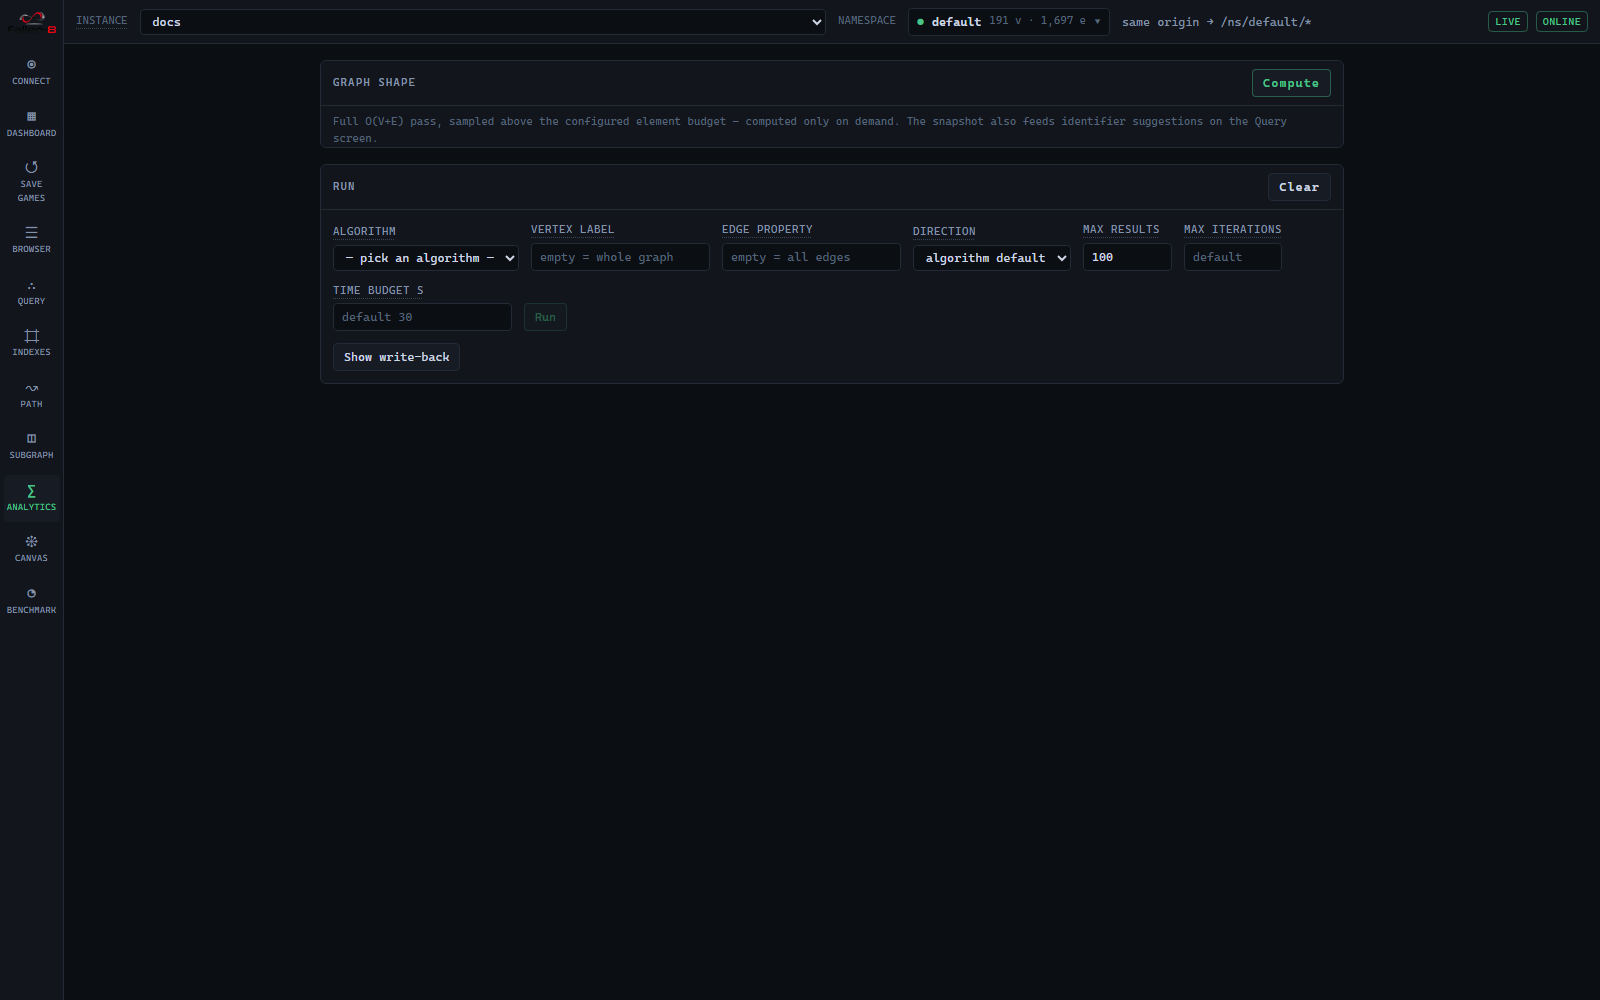
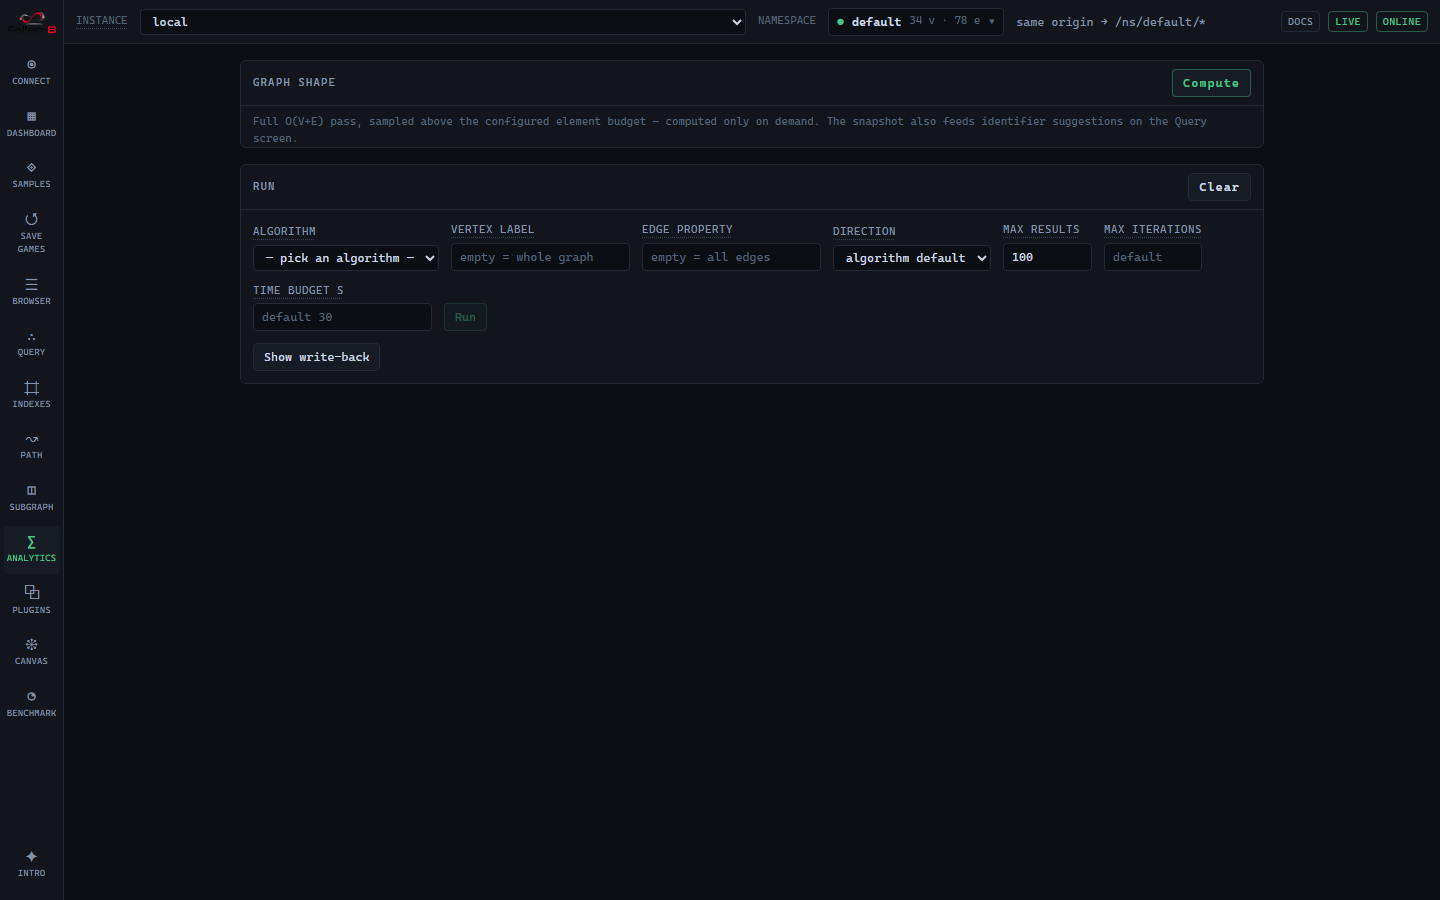
docs: add capture specs for the remaining Studio screens
Six top-bar screens (dashboard, browser, indexes, plugins, analytics, connect)
had no screenshot capture spec and predated the current tooling. Add
screenshot-*.spec.ts for each (modeled on the existing specs: seed via REST,
activate the same-origin "local" instance, navigate, capture to
docs/src/assets/images/) and regenerate the images so they show the new
top-bar DOCS link. Completes the recapture of every top-bar Studio screenshot.

diff --git a/fallen-8-web-ui/e2e/screenshot-dashboard.spec.ts b/fallen-8-web-ui/e2e/screenshot-dashboard.spec.ts
@@ -1,0 +1,67 @@
+// MIT License
+//
+// screenshot-dashboard.spec.ts
+//
+// Copyright (c) 2011-2026 Henning Rauch
+//
+// Permission is hereby granted, free of charge, to any person obtaining a copy
+// of this software and associated documentation files (the "Software"), to deal
+// in the Software without restriction, including without limitation the rights
+// to use, copy, modify, merge, publish, distribute, sublicense, and/or sell
+// copies of the Software, and to permit persons to whom the Software is
+// furnished to do so, subject to the following conditions:
+//
+// The above copyright notice and this permission notice shall be included in all
+// copies or substantial portions of the Software.
+//
+// THE SOFTWARE IS PROVIDED "AS IS", WITHOUT WARRANTY OF ANY KIND, EXPRESS OR
+// IMPLIED, INCLUDING BUT NOT LIMITED TO THE WARRANTIES OF MERCHANTABILITY,
+//
+// FITNESS FOR A PARTICULAR PURPOSE AND NONINFRINGEMENT. IN NO EVENT SHALL THE
+// AUTHORS OR COPYRIGHT HOLDERS BE LIABLE FOR ANY CLAIM, DAMAGES OR OTHER
+// LIABILITY, WHETHER IN AN ACTION OF CONTRACT, TORT OR OTHERWISE, ARISING FROM,
+// OUT OF OR IN CONNECTION WITH THE SOFTWARE OR THE USE OR OTHER DEALINGS IN THE
+// SOFTWARE.
+
+import { expect, test } from "@playwright/test";
+
+/**
+ * Docs screenshot capture: the Dashboard screen showing live vertex/edge/memory stats.
+ * Capture-only. Generates a 200-vertex / 1,000-edge graph via REST so the counts are non-trivial.
+ *
+ *   F8_SCREENSHOT=1 F8_UI_URL=http://127.0.0.1:<port> npx playwright test e2e/screenshot-dashboard.spec.ts
+ *
+ * Output: docs/src/assets/images/screen-dashboard.png.
+ */
+
+const API_KEY = process.env.F8_E2E_API_KEY ?? "e2e-key";
+const AUTH = { Authorization: `Bearer ${API_KEY}` };
+
+test.skip(process.env.F8_SCREENSHOT !== "1", "docs screenshot capture (set F8_SCREENSHOT=1)");
+
+test("capture the Dashboard screen with a loaded graph", async ({ page, request }) => {
+  await page.setViewportSize({ width: 1440, height: 900 });
+
+  // Idempotent reset, then a 200-vertex graph with 5 out-edges each (1,000 edges).
+  await request.head("/tabularasa/all", { headers: AUTH });
+  expect(
+    (await request.get("/generate?nodeCount=200&edgeCount=5", { headers: AUTH })).ok(),
+  ).toBeTruthy();
+
+  // Activate the auto-seeded same-origin "local" instance with the e2e key (same handshake as
+  // screenshot-savegames), then reload so /status refetches with the key and the nav opens.
+  await page.goto("/");
+  await page.getByRole("button", { name: "Edit" }).first().click();
+  await page.getByLabel(/api key/i).fill(API_KEY);
+  await page.getByTestId("instance-save").click();
+  await page.getByRole("radio", { name: "activate local" }).check();
+  await expect(page.getByTestId("active-endpoint")).toContainText("same origin");
+  await page.reload();
+  await expect(page.getByTestId("health-chip")).toContainText(/online/i, { timeout: 20_000 });
+
+  await page.goto("/q/default/dashboard");
+  await expect(page.getByRole("heading", { name: /dashboard/i })).toBeVisible({ timeout: 20_000 });
+  await expect(page.getByText(/used memory/i)).toBeVisible({ timeout: 20_000 });
+
+  await page.screenshot({ path: "../docs/src/assets/images/screen-dashboard.png" });
+});

diff --git a/fallen-8-web-ui/e2e/screenshot-indexes.spec.ts b/fallen-8-web-ui/e2e/screenshot-indexes.spec.ts
@@ -1,0 +1,66 @@
+// MIT License
+//
+// screenshot-indexes.spec.ts
+//
+// Copyright (c) 2011-2026 Henning Rauch
+//
+// Permission is hereby granted, free of charge, to any person obtaining a copy
+// of this software and associated documentation files (the "Software"), to deal
+// in the Software without restriction, including without limitation the rights
+// to use, copy, modify, merge, publish, distribute, sublicense, and/or sell
+// copies of the Software, and to permit persons to whom the Software is
+// furnished to do so, subject to the following conditions:
+//
+// The above copyright notice and this permission notice shall be included in all
+// copies or substantial portions of the Software.
+//
+// THE SOFTWARE IS PROVIDED "AS IS", WITHOUT WARRANTY OF ANY KIND, EXPRESS OR
+// IMPLIED, INCLUDING BUT NOT LIMITED TO THE WARRANTIES OF MERCHANTABILITY,
+//
+// FITNESS FOR A PARTICULAR PURPOSE AND NONINFRINGEMENT. IN NO EVENT SHALL THE
+// AUTHORS OR COPYRIGHT HOLDERS BE LIABLE FOR ANY CLAIM, DAMAGES OR OTHER
+// LIABILITY, WHETHER IN AN ACTION OF CONTRACT, TORT OR OTHERWISE, ARISING FROM,
+// OUT OF OR IN CONNECTION WITH THE SOFTWARE OR THE USE OR OTHER DEALINGS IN THE
+// SOFTWARE.
+
+import { expect, test } from "@playwright/test";
+import { readFileSync } from "node:fs";
+import path from "node:path";
+
+/**
+ * Docs screenshot capture: the Indexes screen (inventory + the Create index form). Capture-only.
+ * Imports the Karate Club sample so the namespace carries real counts; leaves the inventory empty
+ * so the create form and its guidance are the subject (index definitions are immutable).
+ *
+ *   F8_SCREENSHOT=1 F8_UI_URL=http://127.0.0.1:<port> npx playwright test e2e/screenshot-indexes.spec.ts
+ *
+ * Output: docs/src/assets/images/screen-indexes.png.
+ */
+
+const API_KEY = process.env.F8_E2E_API_KEY ?? "e2e-key";
+const AUTH = { Authorization: `Bearer ${API_KEY}` };
+const NDJSON = { ...AUTH, "Content-Type": "application/x-ndjson" };
+
+test.skip(process.env.F8_SCREENSHOT !== "1", "docs screenshot capture (set F8_SCREENSHOT=1)");
+
+test("capture the Indexes screen", async ({ page, request }) => {
+  await page.setViewportSize({ width: 1440, height: 900 });
+
+  await request.head("/tabularasa/all", { headers: AUTH });
+  const jsonl = readFileSync(path.resolve(process.cwd(), "../samples/karate-club.jsonl"), "utf8");
+  expect((await request.post("/bulk/import", { headers: NDJSON, data: jsonl })).ok()).toBeTruthy();
+
+  await page.goto("/");
+  await page.getByRole("button", { name: "Edit" }).first().click();
+  await page.getByLabel(/api key/i).fill(API_KEY);
+  await page.getByTestId("instance-save").click();
+  await page.getByRole("radio", { name: "activate local" }).check();
+  await expect(page.getByTestId("active-endpoint")).toContainText("same origin");
+  await page.reload();
+  await expect(page.getByTestId("health-chip")).toContainText(/online/i, { timeout: 20_000 });
+
+  await page.goto("/q/default/indexes");
+  await expect(page.getByTestId("index-type").first()).toBeVisible({ timeout: 20_000 });
+
+  await page.screenshot({ path: "../docs/src/assets/images/screen-indexes.png" });
+});

diff --git a/fallen-8-web-ui/e2e/screenshot-analytics.spec.ts b/fallen-8-web-ui/e2e/screenshot-analytics.spec.ts
@@ -1,0 +1,65 @@
+// MIT License
+//
+// screenshot-analytics.spec.ts
+//
+// Copyright (c) 2011-2026 Henning Rauch
+//
+// Permission is hereby granted, free of charge, to any person obtaining a copy
+// of this software and associated documentation files (the "Software"), to deal
+// in the Software without restriction, including without limitation the rights
+// to use, copy, modify, merge, publish, distribute, sublicense, and/or sell
+// copies of the Software, and to permit persons to whom the Software is
+// furnished to do so, subject to the following conditions:
+//
+// The above copyright notice and this permission notice shall be included in all
+// copies or substantial portions of the Software.
+//
+// THE SOFTWARE IS PROVIDED "AS IS", WITHOUT WARRANTY OF ANY KIND, EXPRESS OR
+// IMPLIED, INCLUDING BUT NOT LIMITED TO THE WARRANTIES OF MERCHANTABILITY,
+//
+// FITNESS FOR A PARTICULAR PURPOSE AND NONINFRINGEMENT. IN NO EVENT SHALL THE
+// AUTHORS OR COPYRIGHT HOLDERS BE LIABLE FOR ANY CLAIM, DAMAGES OR OTHER
+// LIABILITY, WHETHER IN AN ACTION OF CONTRACT, TORT OR OTHERWISE, ARISING FROM,
+// OUT OF OR IN CONNECTION WITH THE SOFTWARE OR THE USE OR OTHER DEALINGS IN THE
+// SOFTWARE.
+
+import { expect, test } from "@playwright/test";
+import { readFileSync } from "node:fs";
+import path from "node:path";
+
+/**
+ * Docs screenshot capture: the Analytics screen before a run (algorithm picker + options).
+ * Capture-only. Imports the Karate Club sample so the graph is ready to analyze.
+ *
+ *   F8_SCREENSHOT=1 F8_UI_URL=http://127.0.0.1:<port> npx playwright test e2e/screenshot-analytics.spec.ts
+ *
+ * Output: docs/src/assets/images/screen-analytics-before.png.
+ */
+
+const API_KEY = process.env.F8_E2E_API_KEY ?? "e2e-key";
+const AUTH = { Authorization: `Bearer ${API_KEY}` };
+const NDJSON = { ...AUTH, "Content-Type": "application/x-ndjson" };
+
+test.skip(process.env.F8_SCREENSHOT !== "1", "docs screenshot capture (set F8_SCREENSHOT=1)");
+
+test("capture the Analytics screen before a run", async ({ page, request }) => {
+  await page.setViewportSize({ width: 1440, height: 900 });
+
+  await request.head("/tabularasa/all", { headers: AUTH });
+  const jsonl = readFileSync(path.resolve(process.cwd(), "../samples/karate-club.jsonl"), "utf8");
+  expect((await request.post("/bulk/import", { headers: NDJSON, data: jsonl })).ok()).toBeTruthy();
+
+  await page.goto("/");
+  await page.getByRole("button", { name: "Edit" }).first().click();
+  await page.getByLabel(/api key/i).fill(API_KEY);
+  await page.getByTestId("instance-save").click();
+  await page.getByRole("radio", { name: "activate local" }).check();
+  await expect(page.getByTestId("active-endpoint")).toContainText("same origin");
+  await page.reload();
+  await expect(page.getByTestId("health-chip")).toContainText(/online/i, { timeout: 20_000 });
+
+  await page.goto("/q/default/analytics");
+  await expect(page.getByTestId("algo-name")).toBeVisible({ timeout: 20_000 });
+
+  await page.screenshot({ path: "../docs/src/assets/images/screen-analytics-before.png" });
+});

diff --git a/fallen-8-web-ui/e2e/screenshot-browser.spec.ts b/fallen-8-web-ui/e2e/screenshot-browser.spec.ts
@@ -1,0 +1,65 @@
+// MIT License
+//
+// screenshot-browser.spec.ts
+//
+// Copyright (c) 2011-2026 Henning Rauch
+//
+// Permission is hereby granted, free of charge, to any person obtaining a copy
+// of this software and associated documentation files (the "Software"), to deal
+// in the Software without restriction, including without limitation the rights
+// to use, copy, modify, merge, publish, distribute, sublicense, and/or sell
+// copies of the Software, and to permit persons to whom the Software is
+// furnished to do so, subject to the following conditions:
+//
+// The above copyright notice and this permission notice shall be included in all
+// copies or substantial portions of the Software.
+//
+// THE SOFTWARE IS PROVIDED "AS IS", WITHOUT WARRANTY OF ANY KIND, EXPRESS OR
+// IMPLIED, INCLUDING BUT NOT LIMITED TO THE WARRANTIES OF MERCHANTABILITY,
+//
+// FITNESS FOR A PARTICULAR PURPOSE AND NONINFRINGEMENT. IN NO EVENT SHALL THE
+// AUTHORS OR COPYRIGHT HOLDERS BE LIABLE FOR ANY CLAIM, DAMAGES OR OTHER
+// LIABILITY, WHETHER IN AN ACTION OF CONTRACT, TORT OR OTHERWISE, ARISING FROM,
+// OUT OF OR IN CONNECTION WITH THE SOFTWARE OR THE USE OR OTHER DEALINGS IN THE
+// SOFTWARE.
+
+import { expect, test } from "@playwright/test";
+import { readFileSync } from "node:fs";
+import path from "node:path";
+
+/**
+ * Docs screenshot capture: the Browser screen listing real graph elements. Capture-only.
+ * Imports the Karate Club sample so the element list carries labelled vertices and edges.
+ *
+ *   F8_SCREENSHOT=1 F8_UI_URL=http://127.0.0.1:<port> npx playwright test e2e/screenshot-browser.spec.ts
+ *
+ * Output: docs/src/assets/images/screen-browser.png.
+ */
+
+const API_KEY = process.env.F8_E2E_API_KEY ?? "e2e-key";
+const AUTH = { Authorization: `Bearer ${API_KEY}` };
+const NDJSON = { ...AUTH, "Content-Type": "application/x-ndjson" };
+
+test.skip(process.env.F8_SCREENSHOT !== "1", "docs screenshot capture (set F8_SCREENSHOT=1)");
+
+test("capture the Browser screen on a loaded graph", async ({ page, request }) => {
+  await page.setViewportSize({ width: 1440, height: 900 });
+
+  await request.head("/tabularasa/all", { headers: AUTH });
+  const jsonl = readFileSync(path.resolve(process.cwd(), "../samples/karate-club.jsonl"), "utf8");
+  expect((await request.post("/bulk/import", { headers: NDJSON, data: jsonl })).ok()).toBeTruthy();
+
+  await page.goto("/");
+  await page.getByRole("button", { name: "Edit" }).first().click();
+  await page.getByLabel(/api key/i).fill(API_KEY);
+  await page.getByTestId("instance-save").click();
+  await page.getByRole("radio", { name: "activate local" }).check();
+  await expect(page.getByTestId("active-endpoint")).toContainText("same origin");
+  await page.reload();
+  await expect(page.getByTestId("health-chip")).toContainText(/online/i, { timeout: 20_000 });
+
+  await page.goto("/q/default/browser");
+  await expect(page.getByTestId("lookup-id")).toBeVisible({ timeout: 20_000 });
+
+  await page.screenshot({ path: "../docs/src/assets/images/screen-browser.png" });
+});

diff --git a/fallen-8-web-ui/e2e/screenshot-connect.spec.ts b/fallen-8-web-ui/e2e/screenshot-connect.spec.ts
@@ -1,0 +1,61 @@
+// MIT License
+//
+// screenshot-connect.spec.ts
+//
+// Copyright (c) 2011-2026 Henning Rauch
+//
+// Permission is hereby granted, free of charge, to any person obtaining a copy
+// of this software and associated documentation files (the "Software"), to deal
+// in the Software without restriction, including without limitation the rights
+// to use, copy, modify, merge, publish, distribute, sublicense, and/or sell
+// copies of the Software, and to permit persons to whom the Software is
+// furnished to do so, subject to the following conditions:
+//
+// The above copyright notice and this permission notice shall be included in all
+// copies or substantial portions of the Software.
+//
+// THE SOFTWARE IS PROVIDED "AS IS", WITHOUT WARRANTY OF ANY KIND, EXPRESS OR
+// IMPLIED, INCLUDING BUT NOT LIMITED TO THE WARRANTIES OF MERCHANTABILITY,
+//
+// FITNESS FOR A PARTICULAR PURPOSE AND NONINFRINGEMENT. IN NO EVENT SHALL THE
+// AUTHORS OR COPYRIGHT HOLDERS BE LIABLE FOR ANY CLAIM, DAMAGES OR OTHER
+// LIABILITY, WHETHER IN AN ACTION OF CONTRACT, TORT OR OTHERWISE, ARISING FROM,
+// OUT OF OR IN CONNECTION WITH THE SOFTWARE OR THE USE OR OTHER DEALINGS IN THE
+// SOFTWARE.
+
+import { expect, test } from "@playwright/test";
+
+/**
+ * Docs screenshot capture: the Connect screen with the active same-origin "local" instance
+ * (registration list + configuration). Capture-only; needs no graph data.
+ *
+ *   F8_SCREENSHOT=1 F8_UI_URL=http://127.0.0.1:<port> npx playwright test e2e/screenshot-connect.spec.ts
+ *
+ * Output: docs/src/assets/images/screen-connect.png.
+ */
+
+const API_KEY = process.env.F8_E2E_API_KEY ?? "e2e-key";
+const AUTH = { Authorization: `Bearer ${API_KEY}` };
+
+test.skip(process.env.F8_SCREENSHOT !== "1", "docs screenshot capture (set F8_SCREENSHOT=1)");
+
+test("capture the Connect screen", async ({ page, request }) => {
+  await page.setViewportSize({ width: 1440, height: 900 });
+
+  await request.head("/tabularasa/all", { headers: AUTH });
+
+  await page.goto("/");
+  await page.getByRole("button", { name: "Edit" }).first().click();
+  await page.getByLabel(/api key/i).fill(API_KEY);
+  await page.getByTestId("instance-save").click();
+  await page.getByRole("radio", { name: "activate local" }).check();
+  await expect(page.getByTestId("active-endpoint")).toContainText("same origin");
+  await page.reload();
+  await expect(page.getByTestId("health-chip")).toContainText(/online/i, { timeout: 20_000 });
+
+  // Connect is the root route; it stays reachable in every connection state.
+  await page.goto("/");
+  await expect(page.getByTestId("instance-add")).toBeVisible({ timeout: 20_000 });
+
+  await page.screenshot({ path: "../docs/src/assets/images/screen-connect.png" });
+});

diff --git a/fallen-8-web-ui/e2e/screenshot-plugins.spec.ts b/fallen-8-web-ui/e2e/screenshot-plugins.spec.ts
@@ -1,0 +1,60 @@
+// MIT License
+//
+// screenshot-plugins.spec.ts
+//
+// Copyright (c) 2011-2026 Henning Rauch
+//
+// Permission is hereby granted, free of charge, to any person obtaining a copy
+// of this software and associated documentation files (the "Software"), to deal
+// in the Software without restriction, including without limitation the rights
+// to use, copy, modify, merge, publish, distribute, sublicense, and/or sell
+// copies of the Software, and to permit persons to whom the Software is
+// furnished to do so, subject to the following conditions:
+//
+// The above copyright notice and this permission notice shall be included in all
+// copies or substantial portions of the Software.
+//
+// THE SOFTWARE IS PROVIDED "AS IS", WITHOUT WARRANTY OF ANY KIND, EXPRESS OR
+// IMPLIED, INCLUDING BUT NOT LIMITED TO THE WARRANTIES OF MERCHANTABILITY,
+//
+// FITNESS FOR A PARTICULAR PURPOSE AND NONINFRINGEMENT. IN NO EVENT SHALL THE
+// AUTHORS OR COPYRIGHT HOLDERS BE LIABLE FOR ANY CLAIM, DAMAGES OR OTHER
+// LIABILITY, WHETHER IN AN ACTION OF CONTRACT, TORT OR OTHERWISE, ARISING FROM,
+// OUT OF OR IN CONNECTION WITH THE SOFTWARE OR THE USE OR OTHER DEALINGS IN THE
+// SOFTWARE.
+
+import { expect, test } from "@playwright/test";
+
+/**
+ * Docs screenshot capture: the Plugins screen listing the built-in plugin families (index /
+ * path / subgraph / analytics / service) reported by /status. Capture-only; needs no graph data.
+ *
+ *   F8_SCREENSHOT=1 F8_UI_URL=http://127.0.0.1:<port> npx playwright test e2e/screenshot-plugins.spec.ts
+ *
+ * Output: docs/src/assets/images/screen-plugins.png.
+ */
+
+const API_KEY = process.env.F8_E2E_API_KEY ?? "e2e-key";
+const AUTH = { Authorization: `Bearer ${API_KEY}` };
+
+test.skip(process.env.F8_SCREENSHOT !== "1", "docs screenshot capture (set F8_SCREENSHOT=1)");
+
+test("capture the Plugins screen", async ({ page, request }) => {
+  await page.setViewportSize({ width: 1440, height: 900 });
+
+  await request.head("/tabularasa/all", { headers: AUTH });
+
+  await page.goto("/");
+  await page.getByRole("button", { name: "Edit" }).first().click();
+  await page.getByLabel(/api key/i).fill(API_KEY);
+  await page.getByTestId("instance-save").click();
+  await page.getByRole("radio", { name: "activate local" }).check();
+  await expect(page.getByTestId("active-endpoint")).toContainText("same origin");
+  await page.reload();
+  await expect(page.getByTestId("health-chip")).toContainText(/online/i, { timeout: 20_000 });
+
+  await page.goto("/q/default/plugins");
+  await expect(page.getByText("Index plugins")).toBeVisible({ timeout: 20_000 });
+
+  await page.screenshot({ path: "../docs/src/assets/images/screen-plugins.png" });
+});
